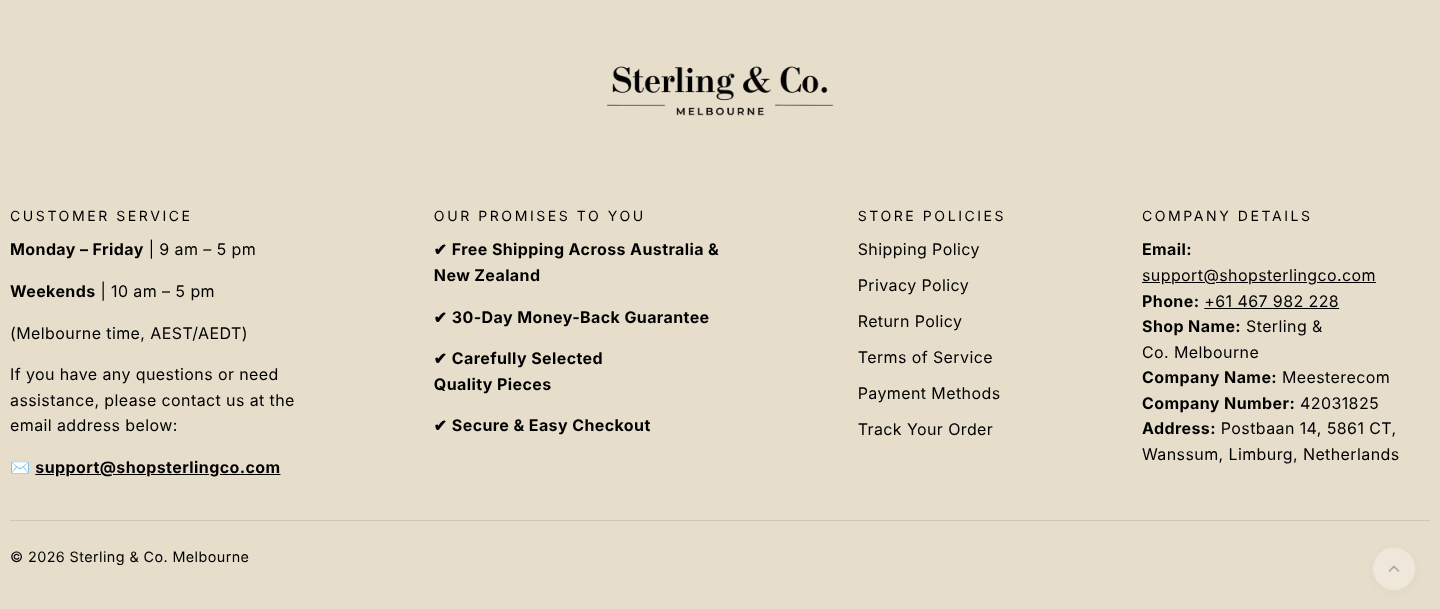
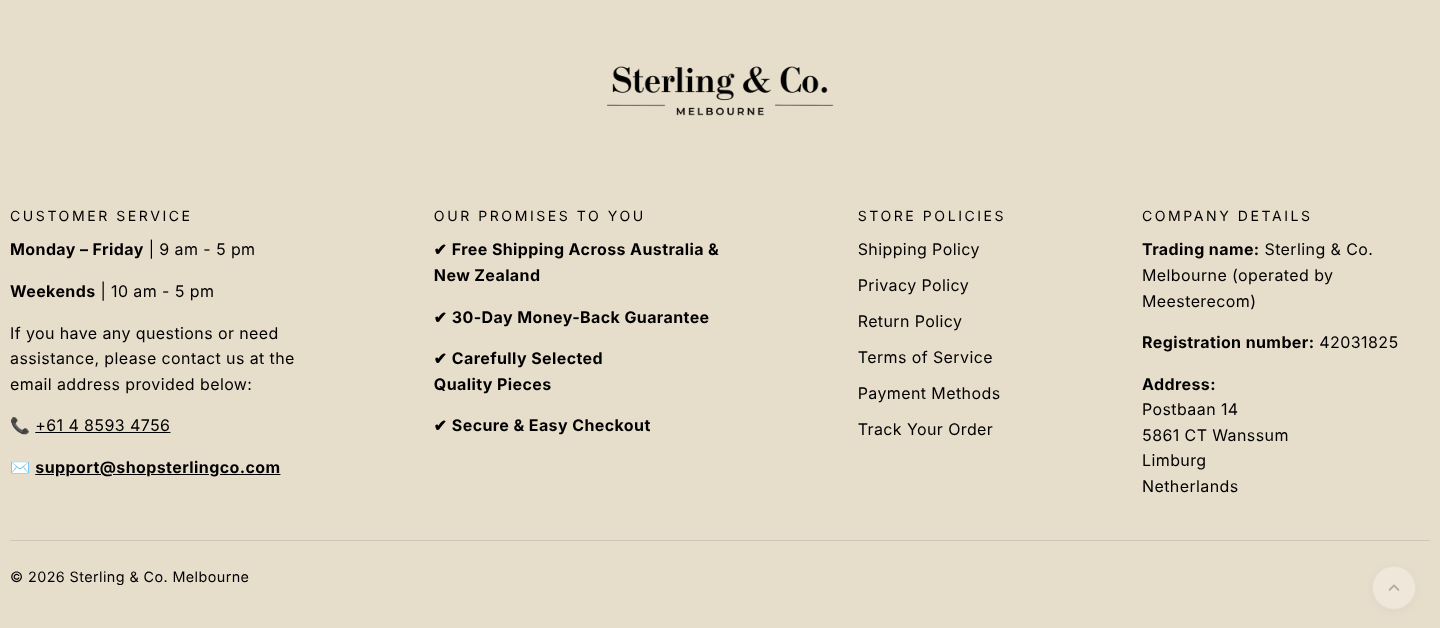
Footer layout with company details and support phone
Claude-Session: https://claude.ai/code/session_01JYLvCMmxckHQzhjDcSKmYz

diff --git a/policies-voor-shopify.html b/policies-voor-shopify.html
@@ -54,7 +54,7 @@ button.ok{background:var(--gold);color:#fff}
 <p>Any address errors must be reported within 24 hours of placing the order by emailing support@shopsterlingco.com.</p>
 <p>Nothing in this policy limits any consumer guarantee you have under the Australian Consumer Law that cannot be excluded.</p>
 <h3>Company details</h3>
-<p><strong>Email:</strong> support@shopsterlingco.com<br><strong>Phone:</strong> +61 467 982 228<br><strong>Shop Name:</strong> Sterling &amp; Co. Melbourne<br><strong>Company Name:</strong> Meesterecom<br><strong>Company Number:</strong> 42031825<br><strong>Address:</strong> Postbaan 14, 5861 CT, Wanssum, Limburg, Netherlands</p>
+<p><strong>Email:</strong> support@shopsterlingco.com<br><strong>Phone:</strong> +61 4 8593 4756<br><strong>Shop Name:</strong> Sterling &amp; Co. Melbourne<br><strong>Company Name:</strong> Meesterecom<br><strong>Company Number:</strong> 42031825<br><strong>Address:</strong> Postbaan 14, 5861 CT, Wanssum, Limburg, Netherlands</p>
 </div></details>
 
 <details><summary><span>Privacybeleid <small>← Privacy Policy</small></span><button data-c="p">Kopieer</button></summary><div class="body" id="p">
@@ -82,7 +82,7 @@ button.ok{background:var(--gold);color:#fff}
 <p><strong>9. Contact</strong></p>
 <p>Sterling &amp; Co. Melbourne — support@shopsterlingco.com</p>
 <h3>Company details</h3>
-<p><strong>Email:</strong> support@shopsterlingco.com<br><strong>Phone:</strong> +61 467 982 228<br><strong>Shop Name:</strong> Sterling &amp; Co. Melbourne<br><strong>Company Name:</strong> Meesterecom<br><strong>Company Number:</strong> 42031825<br><strong>Address:</strong> Postbaan 14, 5861 CT, Wanssum, Limburg, Netherlands</p>
+<p><strong>Email:</strong> support@shopsterlingco.com<br><strong>Phone:</strong> +61 4 8593 4756<br><strong>Shop Name:</strong> Sterling &amp; Co. Melbourne<br><strong>Company Name:</strong> Meesterecom<br><strong>Company Number:</strong> 42031825<br><strong>Address:</strong> Postbaan 14, 5861 CT, Wanssum, Limburg, Netherlands</p>
 </div></details>
 
 <details><summary><span>Servicevoorwaarden <small>← Terms &amp; Conditions</small></span><button data-c="t">Kopieer</button></summary><div class="body" id="t">
@@ -109,7 +109,7 @@ button.ok{background:var(--gold);color:#fff}
 <p><strong>9. Governing law</strong></p>
 <p>These Terms &amp; Conditions are governed by the laws of Victoria, Australia. Any disputes will be submitted to the competent courts of Victoria, Australia, unless otherwise required by applicable law.</p>
 <h3>Company details</h3>
-<p><strong>Email:</strong> support@shopsterlingco.com<br><strong>Phone:</strong> +61 467 982 228<br><strong>Shop Name:</strong> Sterling &amp; Co. Melbourne<br><strong>Company Name:</strong> Meesterecom<br><strong>Company Number:</strong> 42031825<br><strong>Address:</strong> Postbaan 14, 5861 CT, Wanssum, Limburg, Netherlands</p>
+<p><strong>Email:</strong> support@shopsterlingco.com<br><strong>Phone:</strong> +61 4 8593 4756<br><strong>Shop Name:</strong> Sterling &amp; Co. Melbourne<br><strong>Company Name:</strong> Meesterecom<br><strong>Company Number:</strong> 42031825<br><strong>Address:</strong> Postbaan 14, 5861 CT, Wanssum, Limburg, Netherlands</p>
 </div></details>
 
 <details><summary><span>Verzendbeleid <small>← Shipping &amp; Delivery</small></span><button data-c="s">Kopieer</button></summary><div class="body" id="s">
@@ -130,7 +130,7 @@ button.ok{background:var(--gold);color:#fff}
 <p>If tracking information shows the parcel has been delivered, responsibility passes to the customer.</p>
 <p>Please double-check your address carefully; any errors must be reported within 24 hours of placing your order by emailing support@shopsterlingco.com.</p>
 <h3>Company details</h3>
-<p><strong>Email:</strong> support@shopsterlingco.com<br><strong>Phone:</strong> +61 467 982 228<br><strong>Shop Name:</strong> Sterling &amp; Co. Melbourne<br><strong>Company Name:</strong> Meesterecom<br><strong>Company Number:</strong> 42031825<br><strong>Address:</strong> Postbaan 14, 5861 CT, Wanssum, Limburg, Netherlands</p>
+<p><strong>Email:</strong> support@shopsterlingco.com<br><strong>Phone:</strong> +61 4 8593 4756<br><strong>Shop Name:</strong> Sterling &amp; Co. Melbourne<br><strong>Company Name:</strong> Meesterecom<br><strong>Company Number:</strong> 42031825<br><strong>Address:</strong> Postbaan 14, 5861 CT, Wanssum, Limburg, Netherlands</p>
 </div></details>
 
 <details><summary><span>Contactgegevens <small>← Contact Us</small></span><button data-c="c">Kopieer</button></summary><div class="body" id="c">
@@ -138,13 +138,13 @@ button.ok{background:var(--gold);color:#fff}
 <p><strong>Support hours (AEST/AEDT):</strong> Monday – Friday 9:00 am – 5:00 pm · Saturday – Sunday 10:00 am – 5:00 pm</p>
 <p>We'll get back to you as soon as possible.</p>
 <h3>Company details</h3>
-<p><strong>Email:</strong> support@shopsterlingco.com<br><strong>Phone:</strong> +61 467 982 228<br><strong>Shop Name:</strong> Sterling &amp; Co. Melbourne<br><strong>Company Name:</strong> Meesterecom<br><strong>Company Number:</strong> 42031825<br><strong>Address:</strong> Postbaan 14, 5861 CT, Wanssum, Limburg, Netherlands</p>
+<p><strong>Email:</strong> support@shopsterlingco.com<br><strong>Phone:</strong> +61 4 8593 4756<br><strong>Shop Name:</strong> Sterling &amp; Co. Melbourne<br><strong>Company Name:</strong> Meesterecom<br><strong>Company Number:</strong> 42031825<br><strong>Address:</strong> Postbaan 14, 5861 CT, Wanssum, Limburg, Netherlands</p>
 </div></details>
 <details><summary><span>Wettelijke kennisgeving <small>← Legal notice</small></span><button data-c="l">Kopieer</button></summary><div class="body" id="l">
 <p><strong>Legal notice</strong></p>
 <p>This website is operated by <strong>Meesterecom</strong>, trading as Sterling &amp; Co. Melbourne.</p>
 <h3>Company details</h3>
-<p><strong>Email:</strong> support@shopsterlingco.com<br><strong>Phone:</strong> +61 467 982 228<br><strong>Shop Name:</strong> Sterling &amp; Co. Melbourne<br><strong>Company Name:</strong> Meesterecom<br><strong>Company Number:</strong> 42031825<br><strong>Address:</strong> Postbaan 14, 5861 CT, Wanssum, Limburg, Netherlands</p>
+<p><strong>Email:</strong> support@shopsterlingco.com<br><strong>Phone:</strong> +61 4 8593 4756<br><strong>Shop Name:</strong> Sterling &amp; Co. Melbourne<br><strong>Company Name:</strong> Meesterecom<br><strong>Company Number:</strong> 42031825<br><strong>Address:</strong> Postbaan 14, 5861 CT, Wanssum, Limburg, Netherlands</p>
 </div></details>
 </main>
 <script>
